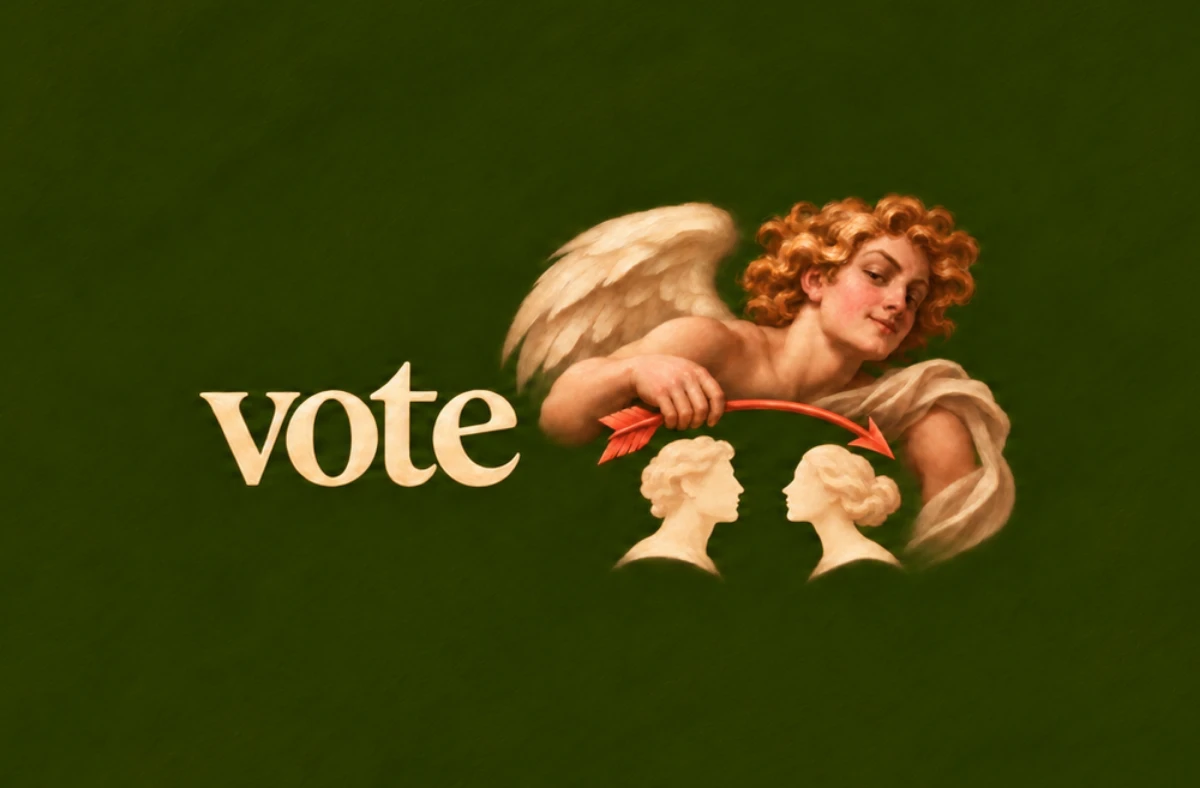
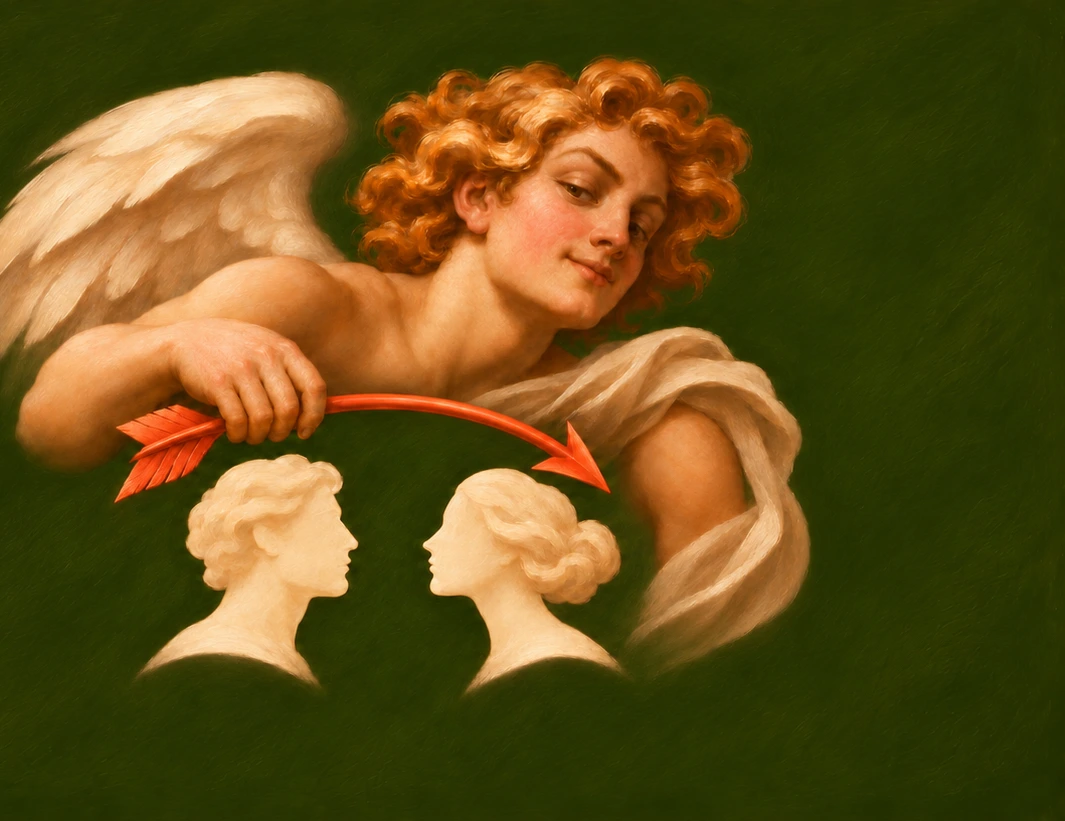
Website visuals: phone-shaped screens, a sharp Cupid hero, the introduction for step 2 (#41)
- The three screens are whole (status bar and header kept) inside a phone
  shape with rounded corners and the island, 600 px wide.
- Hero: Cupid and the two busts from the full-size painting, sharp; the
  word is already in the header.
- Step 2 ("The community notices") shows the Introduction screen instead
  of Your pairs' closed cards, which said nothing on their own.

diff --git a/index.html b/index.html
@@ -31,7 +31,7 @@
 <link rel="manifest" href="/site.webmanifest">
 <link rel="preload" href="/assets/fonts/fraunces-latin.woff2" as="font" type="font/woff2" crossorigin>
 <link rel="preload" href="/assets/fonts/inter-latin.woff2" as="font" type="font/woff2" crossorigin>
-<link rel="stylesheet" href="/assets/site.css" integrity="sha256-SOmcSEsoB2w9CCtvdI6CqL9znNaz/K3tGUXjkF9nJ68=" crossorigin="anonymous">
+<link rel="stylesheet" href="/assets/site.css" integrity="sha256-WE/usx6BBYAItRHOfih7+TZp7GFaJp4i46Z9LdOUGnk=" crossorigin="anonymous">
 </head>
 <body>
 <a class="skip" href="#main">Skip to content</a>
@@ -59,7 +59,7 @@
       <p class="hero-note">Now on the App Store · Free to download · Ages 18+. <a href="#how">See how it works</a></p>
     </div>
     <div class="hero-art">
-      <img src="/assets/img/hero-cupid.webp" width="1200" height="788" alt="" fetchpriority="high">
+      <img src="/assets/img/hero-cupid.webp" width="1065" height="821" alt="" fetchpriority="high">
     </div>
   </div>
 </section>
@@ -72,17 +72,17 @@
     </div>
     <ol class="grid steps">
       <li class="step">
-        <div class="shot"><img src="/assets/img/screen-vote.webp" width="480" height="954" alt="Vote pairs: Rafael and Lucía side by side under the question “Can you see these two together?”" loading="lazy" decoding="async"></div>
+        <div class="shot"><img src="/assets/img/screen-vote.webp" width="600" height="1304" alt="Vote pairs: Rafael and Lucía side by side under the question “Can you see these two together?”" loading="lazy" decoding="async"></div>
         <h3>Vote on a pair</h3>
         <p>Two people side by side, one question: can you see these two together? Then say what you think clicks between them: humor, values, romantic chemistry and more.</p>
       </li>
       <li class="step">
-        <div class="shot"><img src="/assets/img/screen-your-pairs.webp" width="480" height="954" alt="Your pairs: blurred cards for the pairs you are in, one with an introduction waiting." loading="lazy" decoding="async"></div>
+        <div class="shot"><img src="/assets/img/screen-introduction.webp" width="600" height="1304" alt="An introduction: the community sees something between Mark and Lucía, maybe they should meet." loading="lazy" decoding="async"></div>
         <h3>The community notices</h3>
         <p>Votes are anonymous and always about the pair. When enough people see the same thing, those two get a private introduction. You are in pairs too.</p>
       </li>
       <li class="step">
-        <div class="shot"><img src="/assets/img/screen-chat.webp" width="480" height="954" alt="A chat between two people who both said yes." loading="lazy" decoding="async"></div>
+        <div class="shot"><img src="/assets/img/screen-chat.webp" width="600" height="1304" alt="A chat between two people who both said yes." loading="lazy" decoding="async"></div>
         <h3>You both decide</h3>
         <p>A conversation opens only when both of you say yes. Nobody is connected without it. In Discover, a chat opens when you both like each other.</p>
       </li>

diff --git a/src/home.html b/src/home.html
@@ -10,7 +10,7 @@
       <p class="hero-note">Now on the App Store · Free to download · Ages 18+. <a href="#how">See how it works</a></p>
     </div>
     <div class="hero-art">
-      <img src="/assets/img/hero-cupid.webp" width="1200" height="788" alt="" fetchpriority="high">
+      <img src="/assets/img/hero-cupid.webp" width="1065" height="821" alt="" fetchpriority="high">
     </div>
   </div>
 </section>
@@ -23,17 +23,17 @@
     </div>
     <ol class="grid steps">
       <li class="step">
-        <div class="shot"><img src="/assets/img/screen-vote.webp" width="480" height="954" alt="Vote pairs: Rafael and Lucía side by side under the question “Can you see these two together?”" loading="lazy" decoding="async"></div>
+        <div class="shot"><img src="/assets/img/screen-vote.webp" width="600" height="1304" alt="Vote pairs: Rafael and Lucía side by side under the question “Can you see these two together?”" loading="lazy" decoding="async"></div>
         <h3>Vote on a pair</h3>
         <p>Two people side by side, one question: can you see these two together? Then say what you think clicks between them: humor, values, romantic chemistry and more.</p>
       </li>
       <li class="step">
-        <div class="shot"><img src="/assets/img/screen-your-pairs.webp" width="480" height="954" alt="Your pairs: blurred cards for the pairs you are in, one with an introduction waiting." loading="lazy" decoding="async"></div>
+        <div class="shot"><img src="/assets/img/screen-introduction.webp" width="600" height="1304" alt="An introduction: the community sees something between Mark and Lucía, maybe they should meet." loading="lazy" decoding="async"></div>
         <h3>The community notices</h3>
         <p>Votes are anonymous and always about the pair. When enough people see the same thing, those two get a private introduction. You are in pairs too.</p>
       </li>
       <li class="step">
-        <div class="shot"><img src="/assets/img/screen-chat.webp" width="480" height="954" alt="A chat between two people who both said yes." loading="lazy" decoding="async"></div>
+        <div class="shot"><img src="/assets/img/screen-chat.webp" width="600" height="1304" alt="A chat between two people who both said yes." loading="lazy" decoding="async"></div>
         <h3>You both decide</h3>
         <p>A conversation opens only when both of you say yes. Nobody is connected without it. In Discover, a chat opens when you both like each other.</p>
       </li>

diff --git a/assets/site.css b/assets/site.css
@@ -216,12 +216,12 @@ main:focus { outline: none; }
 .steps { list-style: none; margin: var(--space-2xl) 0 0; padding: 0; counter-reset: step; row-gap: var(--space-2xl); }
 .step { counter-increment: step; display: grid; grid-template-rows: auto auto 1fr; gap: var(--space-sm); align-content: start; }
 .shot { display: grid; place-items: center; padding: var(--space-xl) var(--space-lg); border-radius: var(--r-xl); background: var(--paper-2); margin-bottom: var(--space-sm); }
-.shot img { width: 200px; filter: var(--phone-shadow); }
+.shot img { width: 210px; filter: var(--phone-shadow); }
 .step h3::before { content: counter(step); display: inline-flex; align-items: center; justify-content: center; width: 1.6em; height: 1.6em; margin-right: var(--space-sm); border-radius: 50%; box-shadow: inset 0 0 0 1px var(--rule-strong); font: 500 .8125rem/1 var(--sans); color: var(--ink-2); vertical-align: .3em; }
 .step p { color: var(--ink-2); line-height: 1.55; }
 .steps-caption { margin-top: var(--space-xl); }
 @media (min-width: 860px) and (max-width: 959px) { .steps { grid-template-columns: repeat(3, minmax(0, 1fr)); } }
-@media (min-width: 960px) { .steps > .step { grid-column: span 4; } .shot img { width: min(220px, 70%); } }
+@media (min-width: 960px) { .steps > .step { grid-column: span 4; } .shot img { width: min(240px, 78%); } }
 
 /* The Orb: Vote's signature. Its ring is drawn in the colours of the
    Voice Orb as it glows on Vote (sampled from the app's own screen), on

diff --git a/auth/confirm/index.html b/auth/confirm/index.html
@@ -180,7 +180,7 @@
 <link rel="manifest" href="/site.webmanifest">
 <link rel="preload" href="/assets/fonts/fraunces-latin.woff2" as="font" type="font/woff2" crossorigin>
 <link rel="preload" href="/assets/fonts/inter-latin.woff2" as="font" type="font/woff2" crossorigin>
-<link rel="stylesheet" href="/assets/site.css" integrity="sha256-SOmcSEsoB2w9CCtvdI6CqL9znNaz/K3tGUXjkF9nJ68=" crossorigin="anonymous">
+<link rel="stylesheet" href="/assets/site.css" integrity="sha256-WE/usx6BBYAItRHOfih7+TZp7GFaJp4i46Z9LdOUGnk=" crossorigin="anonymous">
 </head>
 <body>
 <a class="skip" href="#main">Skip to content</a>

diff --git a/404.html b/404.html
@@ -31,7 +31,7 @@
 <link rel="manifest" href="/site.webmanifest">
 <link rel="preload" href="/assets/fonts/fraunces-latin.woff2" as="font" type="font/woff2" crossorigin>
 <link rel="preload" href="/assets/fonts/inter-latin.woff2" as="font" type="font/woff2" crossorigin>
-<link rel="stylesheet" href="/assets/site.css" integrity="sha256-SOmcSEsoB2w9CCtvdI6CqL9znNaz/K3tGUXjkF9nJ68=" crossorigin="anonymous">
+<link rel="stylesheet" href="/assets/site.css" integrity="sha256-WE/usx6BBYAItRHOfih7+TZp7GFaJp4i46Z9LdOUGnk=" crossorigin="anonymous">
 </head>
 <body>
 <a class="skip" href="#main">Skip to content</a>

diff --git a/acik-riza/index.html b/acik-riza/index.html
@@ -31,7 +31,7 @@
 <link rel="manifest" href="/site.webmanifest">
 <link rel="preload" href="/assets/fonts/fraunces-latin.woff2" as="font" type="font/woff2" crossorigin>
 <link rel="preload" href="/assets/fonts/inter-latin.woff2" as="font" type="font/woff2" crossorigin>
-<link rel="stylesheet" href="/assets/site.css" integrity="sha256-SOmcSEsoB2w9CCtvdI6CqL9znNaz/K3tGUXjkF9nJ68=" crossorigin="anonymous">
+<link rel="stylesheet" href="/assets/site.css" integrity="sha256-WE/usx6BBYAItRHOfih7+TZp7GFaJp4i46Z9LdOUGnk=" crossorigin="anonymous">
 </head>
 <body>
 <a class="skip" href="#main">Skip to content</a>

diff --git a/child-safety/index.html b/child-safety/index.html
@@ -31,7 +31,7 @@
 <link rel="manifest" href="/site.webmanifest">
 <link rel="preload" href="/assets/fonts/fraunces-latin.woff2" as="font" type="font/woff2" crossorigin>
 <link rel="preload" href="/assets/fonts/inter-latin.woff2" as="font" type="font/woff2" crossorigin>
-<link rel="stylesheet" href="/assets/site.css" integrity="sha256-SOmcSEsoB2w9CCtvdI6CqL9znNaz/K3tGUXjkF9nJ68=" crossorigin="anonymous">
+<link rel="stylesheet" href="/assets/site.css" integrity="sha256-WE/usx6BBYAItRHOfih7+TZp7GFaJp4i46Z9LdOUGnk=" crossorigin="anonymous">
 </head>
 <body>
 <a class="skip" href="#main">Skip to content</a>

diff --git a/delete-account/index.html b/delete-account/index.html
@@ -31,7 +31,7 @@
 <link rel="manifest" href="/site.webmanifest">
 <link rel="preload" href="/assets/fonts/fraunces-latin.woff2" as="font" type="font/woff2" crossorigin>
 <link rel="preload" href="/assets/fonts/inter-latin.woff2" as="font" type="font/woff2" crossorigin>
-<link rel="stylesheet" href="/assets/site.css" integrity="sha256-SOmcSEsoB2w9CCtvdI6CqL9znNaz/K3tGUXjkF9nJ68=" crossorigin="anonymous">
+<link rel="stylesheet" href="/assets/site.css" integrity="sha256-WE/usx6BBYAItRHOfih7+TZp7GFaJp4i46Z9LdOUGnk=" crossorigin="anonymous">
 </head>
 <body>
 <a class="skip" href="#main">Skip to content</a>

diff --git a/kvkk/index.html b/kvkk/index.html
@@ -31,7 +31,7 @@
 <link rel="manifest" href="/site.webmanifest">
 <link rel="preload" href="/assets/fonts/fraunces-latin.woff2" as="font" type="font/woff2" crossorigin>
 <link rel="preload" href="/assets/fonts/inter-latin.woff2" as="font" type="font/woff2" crossorigin>
-<link rel="stylesheet" href="/assets/site.css" integrity="sha256-SOmcSEsoB2w9CCtvdI6CqL9znNaz/K3tGUXjkF9nJ68=" crossorigin="anonymous">
+<link rel="stylesheet" href="/assets/site.css" integrity="sha256-WE/usx6BBYAItRHOfih7+TZp7GFaJp4i46Z9LdOUGnk=" crossorigin="anonymous">
 </head>
 <body>
 <a class="skip" href="#main">Skip to content</a>

diff --git a/privacy/index.html b/privacy/index.html
@@ -31,7 +31,7 @@
 <link rel="manifest" href="/site.webmanifest">
 <link rel="preload" href="/assets/fonts/fraunces-latin.woff2" as="font" type="font/woff2" crossorigin>
 <link rel="preload" href="/assets/fonts/inter-latin.woff2" as="font" type="font/woff2" crossorigin>
-<link rel="stylesheet" href="/assets/site.css" integrity="sha256-SOmcSEsoB2w9CCtvdI6CqL9znNaz/K3tGUXjkF9nJ68=" crossorigin="anonymous">
+<link rel="stylesheet" href="/assets/site.css" integrity="sha256-WE/usx6BBYAItRHOfih7+TZp7GFaJp4i46Z9LdOUGnk=" crossorigin="anonymous">
 </head>
 <body>
 <a class="skip" href="#main">Skip to content</a>

diff --git a/support/index.html b/support/index.html
@@ -31,7 +31,7 @@
 <link rel="manifest" href="/site.webmanifest">
 <link rel="preload" href="/assets/fonts/fraunces-latin.woff2" as="font" type="font/woff2" crossorigin>
 <link rel="preload" href="/assets/fonts/inter-latin.woff2" as="font" type="font/woff2" crossorigin>
-<link rel="stylesheet" href="/assets/site.css" integrity="sha256-SOmcSEsoB2w9CCtvdI6CqL9znNaz/K3tGUXjkF9nJ68=" crossorigin="anonymous">
+<link rel="stylesheet" href="/assets/site.css" integrity="sha256-WE/usx6BBYAItRHOfih7+TZp7GFaJp4i46Z9LdOUGnk=" crossorigin="anonymous">
 </head>
 <body>
 <a class="skip" href="#main">Skip to content</a>

diff --git a/terms/index.html b/terms/index.html
@@ -31,7 +31,7 @@
 <link rel="manifest" href="/site.webmanifest">
 <link rel="preload" href="/assets/fonts/fraunces-latin.woff2" as="font" type="font/woff2" crossorigin>
 <link rel="preload" href="/assets/fonts/inter-latin.woff2" as="font" type="font/woff2" crossorigin>
-<link rel="stylesheet" href="/assets/site.css" integrity="sha256-SOmcSEsoB2w9CCtvdI6CqL9znNaz/K3tGUXjkF9nJ68=" crossorigin="anonymous">
+<link rel="stylesheet" href="/assets/site.css" integrity="sha256-WE/usx6BBYAItRHOfih7+TZp7GFaJp4i46Z9LdOUGnk=" crossorigin="anonymous">
 </head>
 <body>
 <a class="skip" href="#main">Skip to content</a>
